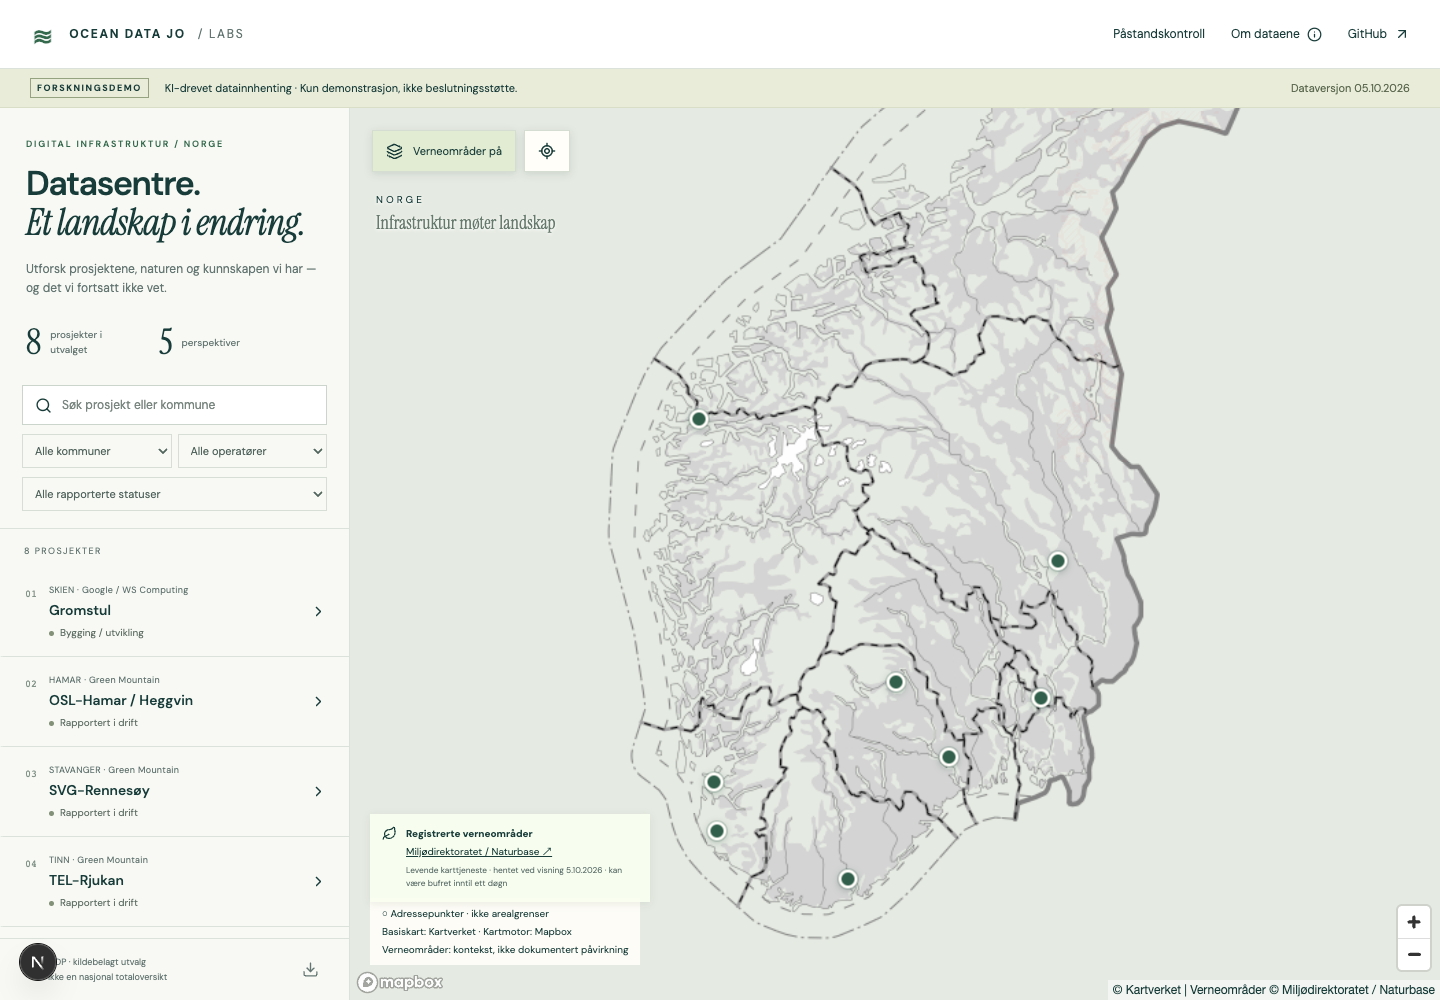
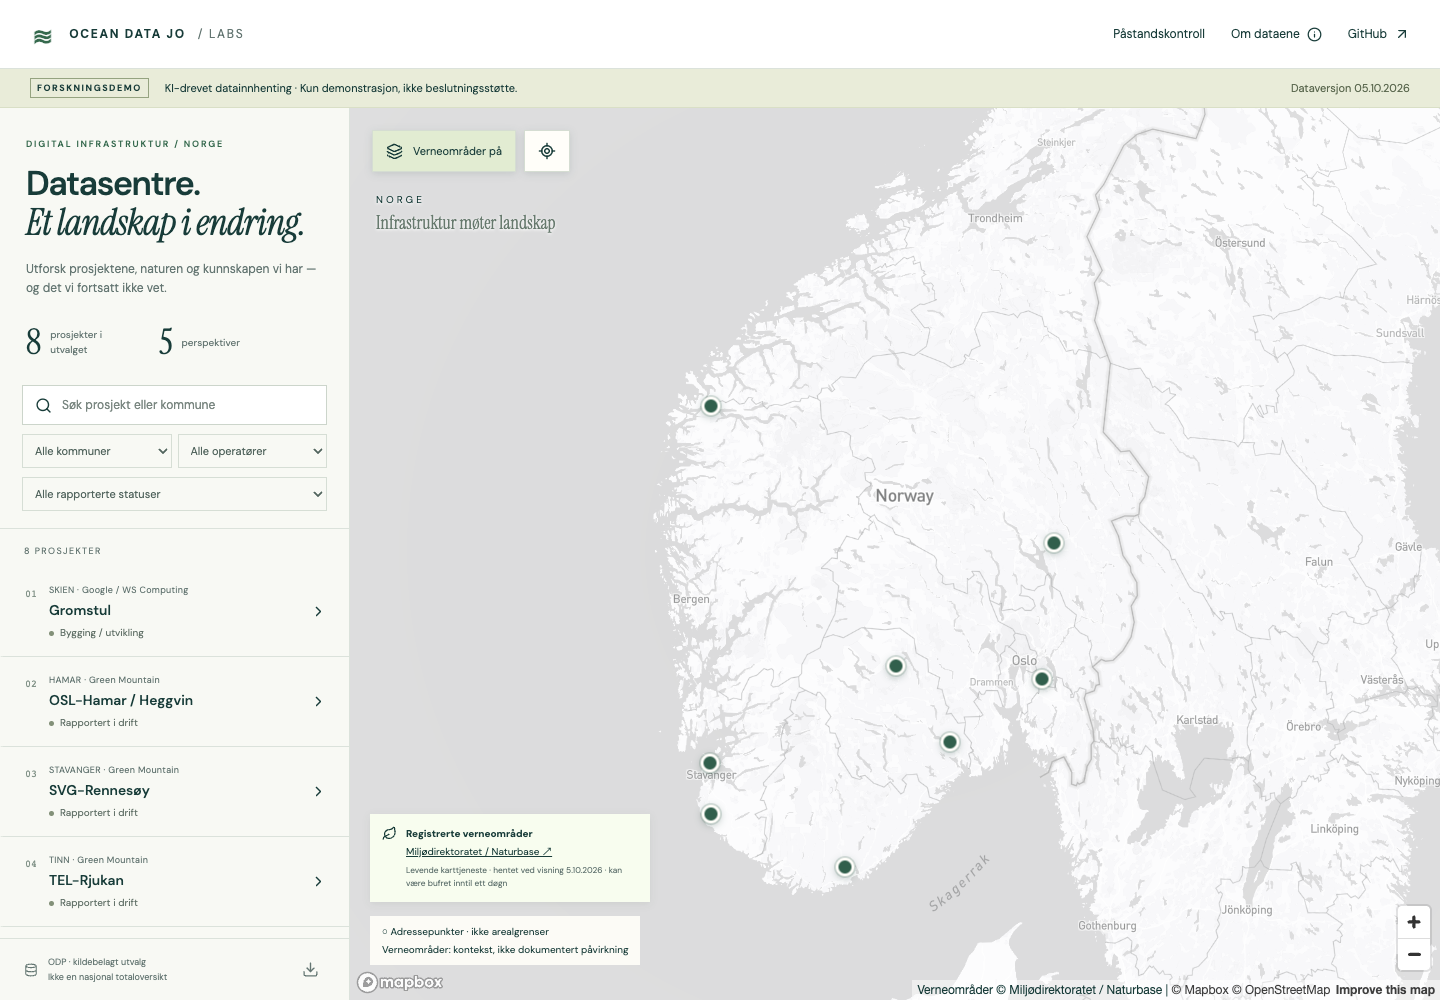
Document verified Labs deployment and enable production browser checks

diff --git a/tests/fallback.spec.ts b/tests/fallback.spec.ts
@@ -1,7 +1,7 @@
 import {test,expect} from '@playwright/test';
 test('Mapbox tile error offers working Kartverket basemap; keyboard dialog',async({page})=>{
- await page.route('**/v4/*.vector.pbf*',r=>r.fulfill({status:403,body:'Forbidden'}));
- await page.goto('http://127.0.0.1:3000/labs/datasenter-analyse-norge');
+ await page.route(url=>url.hostname==='api.mapbox.com' && url.pathname.endsWith('.vector.pbf'),r=>r.fulfill({status:403,body:'Forbidden'}));
+ await page.goto((process.env.TEST_APP_URL || 'http://127.0.0.1:3000/labs/datasenter-analyse-norge'));
  await expect(page.getByRole('button',{name:'Bruk Kartverkets basiskart'})).toBeVisible({timeout:30000});
  const tile=page.waitForResponse(r=>r.url().includes('cache.kartverket.no')&&r.status()===200);
  await page.getByRole('button',{name:'Bruk Kartverkets basiskart'}).click();await tile;

diff --git a/tests/atlas.spec.ts b/tests/atlas.spec.ts
@@ -1,5 +1,5 @@
 import {test,expect} from '@playwright/test';
-const url='http://127.0.0.1:3000/labs/datasenter-analyse-norge';
+const url=(process.env.TEST_APP_URL || 'http://127.0.0.1:3000/labs/datasenter-analyse-norge');
 test('real ODP data, filters, sourced details, shared link, nature and mobile',async({page})=>{
  const errors:string[]=[];page.on('pageerror',e=>errors.push(e.message));
  await page.goto(url);await expect(page.locator('.project-row')).toHaveCount(8,{timeout:60000});await expect(page.locator('.map-marker')).toHaveCount(8,{timeout:30000});

diff --git a/README.md b/README.md
@@ -4,7 +4,7 @@ En kartbasert utforskning av norske datasenterprosjekter, med naturpåvirkning, 
 
 > **KI-drevet datainnhenting. Kun demonstrasjon – ikke beslutningsstøtte.** Utvalget er ufullstendig, kildekontrollen er begrenset, og opplysninger kan være feil eller utdaterte.
 
-**Planlagt offentlig adresse:** [oceandatajo.com/labs/datasenter-analyse-norge](https://oceandatajo.com/labs/datasenter-analyse-norge). Se [verifikasjonsloggen](docs/implementation/verification-2026-10-05.md) for faktisk test- og deploystatus.
+**Åpne demoen:** [oceandatajo.com/labs/datasenter-analyse-norge](https://oceandatajo.com/labs/datasenter-analyse-norge). Se [verifikasjonsloggen](docs/implementation/verification-2026-10-05.md) for faktisk test- og deploystatus.
 
 ![Kartdemo på desktop](docs/implementation/demo-desktop.png)
 
@@ -17,7 +17,7 @@ En kartbasert utforskning av norske datasenterprosjekter, med naturpåvirkning, 
 - Etterprøving av nasjonale påstander, med skille mellom medieomtale, publisert rapport og egen vurdering.
 - Nedlasting av datauttrekket som vises i demoen.
 
-Kartmotoren er Mapbox GL JS. Mapbox er standard basiskart; ved tilgangsfeil kan brukeren velge Kartverkets gråtonekart. Skjermbildet viser dette alternativet.
+Kartmotoren er Mapbox GL JS. Mapbox er standard basiskart; ved tilgangsfeil kan brukeren velge Kartverkets gråtonekart. Skjermbildet viser produksjonsløsningen med Mapbox.
 
 ## Datagrunnlag og begrensninger
 
@@ -68,6 +68,8 @@ npm run typecheck
 npm run build
 # Med lokal dev-server, gyldig .env og Playwright Chromium installert:
 npx playwright test
+# Eller kontroller en deploy:
+TEST_APP_URL=https://oceandatajo.com/labs/datasenter-analyse-norge npx playwright test
 ```
 
 Enhetstester dekker filtrering, koordinatkontroll og kilde-URL-er. Nettlesertester dekker desktop/mobil, prosjektvalg, lenker, tomme søkeresultater, ODP-feil og alternativt basiskart. Integrasjonstestene krever nettverk og bruker ekte ODP- og karttjenester. Testene verifiserer produktets oppførsel, ikke sannhetsgehalten i alle forskningspåstandene.

diff --git a/docs/implementation/verification-2026-10-05.md b/docs/implementation/verification-2026-10-05.md
@@ -38,3 +38,28 @@ Offentlig side på datasenter-analyse-norge.vercel.app svarte 200; API svarte 50
 Siste diagnostiserte upstream-feil var ODP_HTTP_403; datatilgang er ikke verifisert i produksjon.
 Eksisterende Mapbox/base-URL-variabler ble utvidet til Production uten å endre verdiene.
 ODP-nøkkelen er brukerens egen Vercel-variabel og ble ikke overskrevet fra lokal .env.
+
+## Sluttkontroll – offentlig Labs-adresse
+
+Brukeren ga ODP-nøkkelen tilgang til selve datasettene i ODP-admin. Deretter svarte
+https://oceandatajo.com/labs/datasenter-analyse-norge/api/atlas med HTTP 200 og
+utgivelse 2026-10-05-r2: 8 prosjekter, 93 påstander, 45 natur-/vannrader og 77 kilder.
+Ingen lokal nøkkel ble lastet opp som del av denne rettingen.
+
+Appens main-commit 8d49251 utløste vellykket Git-deploy
+(dpl_4dKCQDNPSKuCmjsWuHPc1EhJ3EGM). Gatewayens main-commit 650f074 la til to
+rewrites og utløste vellykket produksjonsdeploy (dpl_JAQjc7zHHikMePtkwjJsowE7vYSS).
+Eksisterende rewrites og redirects ble sammenlignet og beholdt uendret.
+Offentlig Labs-side, CSS og JavaScript svarte HTTP 200.
+
+Playwright mot offentlig Labs-adresse bestod:
+- Ekte ODP-data, 8 markører, søk, kilder, prosjektvalg, delbar URL, tomt søk,
+  verneområder og mobilvisning uten horisontal overløp eller JavaScript-feil.
+- Eksplisitt feilvisning når ODP-feil simuleres.
+- Kartverkets basiskart ved simulert Mapbox-feil, samt tastaturlukking av dialog.
+
+Første kjøring av fallback-testen feilet fordi det gamle glob-mønsteret ikke
+matchet Mapbox-fliser med flere stisegmenter. Testen ble rettet til URL-predikat
+for api.mapbox.com og .vector.pbf; ny kjøring bestod. Produksjonskode var uendret.
+TEST_APP_URL kan nå velge testmål. Produksjonsskjermbilder erstatter lokale bilder.
+Mapbox-basiskart fungerte på produksjonsdomenet ved sluttkontrollen.

diff --git a/docs/leveransestatus.md b/docs/leveransestatus.md
@@ -13,8 +13,8 @@
 | Eierskap | Utvalgte konsern-/operatørkilder, datert der mulig | Full juridisk eierkjede og reell eier per anlegg |
 | Usikkerhet og kilder | Kilde-ID-er, innhentingsdato, publiseringsdato eller eksplisitt ukjent, begrunnelser | Normalisere alle arbeidsdata til endelig datakontrakt |
 | Teknologirådet | Full analyserapport lest; 12 påstander/kontrollspørsmål; interne avvik og datoer bevart | Underliggende 192-raders oversikt, uavhengig reproduksjon og separat kommende anbefalingsrapport |
-| Interaktiv kartløsning | Next.js/Mapbox-demo med ODP, fem temaer, kilder, filtre og verneområder; lokale nettlesertester bestått | Vercel-datatilgang og gateway-integrasjon |
-| Vercel og oceandatajo.com/labs | Lesetilgang og eksisterende gateway kartlagt | Oppdatert gateway-kilde, app-deploy, avgrensede rewrites og live kontroll |
+| Interaktiv kartløsning | Next.js/Mapbox-demo med ODP, fem temaer, kilder, filtre og verneområder; nettlesertester av data, filtre og mobil bestått på offentlig Labs-adresse | Videre nasjonal datadekning |
+| Vercel og oceandatajo.com/labs | Produksjonsdeploy og gateway-ruting levert; offentlig side, ressurser og ODP-API verifisert | Løpende oppfølging ved nye datautgivelser |
 
 En opplysning som ikke er funnet er et kunnskapshull, ikke dokumentasjon på null påvirkning. Første utvalg er ikke representativt, og kan ikke brukes til å estimere nasjonale totaler uten videre arbeid.
 
